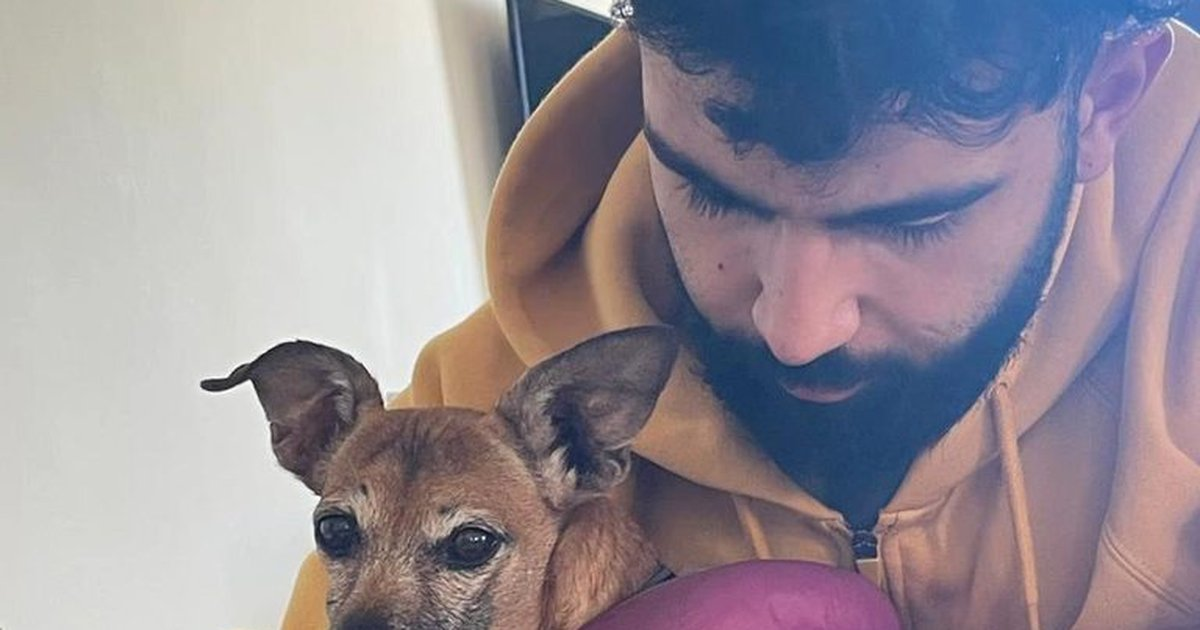
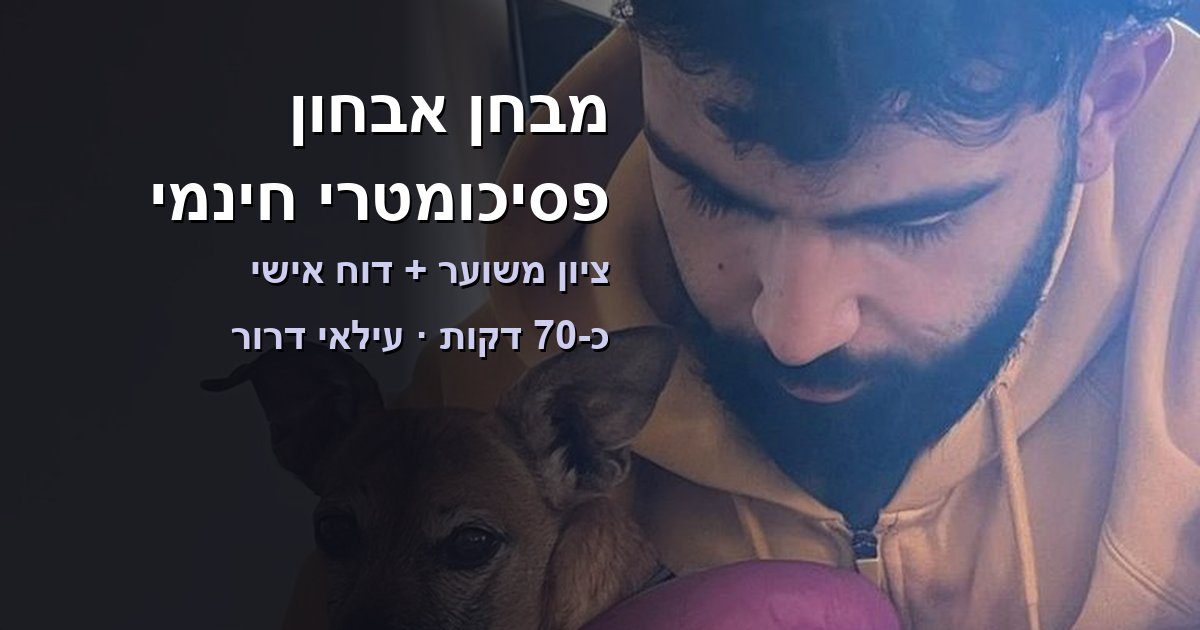
Hashed teacher code, share image with text, stricter short-essay score, mobile labels

diff --git a/index.html b/index.html
@@ -122,6 +122,7 @@ h3{font-size:18px;font-weight:700}
 .testbar{position:sticky;top:0;z-index:5;background:var(--surface);border-bottom:1px solid var(--line)}
 .testbar .in{max-width:1180px;margin:0 auto;padding:10px 16px;display:flex;align-items:center;gap:14px;flex-wrap:wrap}
 .testbar .title{font-weight:800}
+.testbar .title .short,.navbar .btn .lbl-s{display:none}
 .timer{margin-inline-start:auto;font-variant-numeric:tabular-nums;font-weight:800;font-size:20px;padding:4px 14px;border-radius:999px;background:var(--surface-2);border:1px solid var(--line)}
 .timer.low{background:var(--bad-bg);border-color:var(--bad-line);color:var(--bad-ink)}
 .timer.free{font-size:15px;font-weight:600;color:var(--ink-2)}
@@ -365,6 +366,9 @@ details.jr[open]>summary{margin-bottom:10px}
   .testbar .btn.small{padding:4px 10px;font-size:13px}
   .timer{font-size:16px;padding:2px 10px}
   .navbar .btn .lbl{display:none}
+  .navbar .btn .lbl-s{display:inline}
+  .testbar .title .long{display:none}
+  .testbar .title .short{display:inline}
   .pane-toggle{display:flex}
   .qwrap.has-passage.show-q .passage{display:none}
   .qwrap.has-passage.show-p .qcard{display:none}
@@ -436,7 +440,8 @@ const CONFIG = {
     url: 'https://docs.google.com/forms/d/e/1FAIpQLScuFQVT38QfxcK7o1diBXV3meJvBAJAoJFlw9DSOlAKMBEvCA/formResponse',
     fields: {name: 338451258, phone: 454271998, email: 929502395, results: 211868837, code: 629827510},
   },
-  teacherPin: '2468',              // קוד כניסה לדוח המורה
+  // קוד כניסה לדוח המורה: נשמר רק ה-SHA-256 שלו, כדי שלא יופיע בקוד. להחלפה: python -c "import hashlib;print(hashlib.sha256(b'NEW').hexdigest())"
[1 lines of base64/hex data omitted]
   minutes: {verbal: 23, quant: 23, english: 23, essay: 30}, // זמן לפרק במצב "עם זמן"
   realMinutes: 20,                 // זמן פרק בבחינה האמיתית (לחישוב "ציון בתנאי אמת")
   essayRealMinutes: 30,
@@ -489,7 +494,11 @@ function interp(points, x) {
   }
   return points[points.length - 1][1];
 }
-const waLink = text => 'https://wa.me/' + CONFIG.teacherPhone + '?text=' + encodeURIComponent(text);
+async function sha256Hex(s) {
+  try { const b = await crypto.subtle.digest('SHA-256', new TextEncoder().encode(s)); return [...new Uint8Array(b)].map(x => x.toString(16).padStart(2, '0')).join(''); }
+  catch (e) { return ''; }
+}
+const waLink = text =>'https://wa.me/' + CONFIG.teacherPhone + '?text=' + encodeURIComponent(text);
 const telLink = () => 'tel:+' + CONFIG.teacherPhone;
 const tiktokLink = () => 'https://www.tiktok.com/@' + CONFIG.tiktok;
 const mailLink = (subj = 'מבחן האבחון') => 'mailto:' + CONFIG.email + '?subject=' + encodeURIComponent(subj);
@@ -783,7 +792,7 @@ function estimateEssay(text, prompt) {
   l -= Math.min(2, informal * .75);
   let language = 1 + l * 5 / 7;
   // חיבור קצר אינו מפותח מספיק: תקרה לפי אורך
-  const cap = W < 60 ? 1 : W < 120 ? 3 : W < 180 ? 4 : W < 250 ? 5 : 6;
+  const cap = W < 60 ? 1 : W < 120 ? 2 : W < 180 ? 3 : W < 250 ? 4 : W < 300 ? 5 : 6;
   if (keys < 2 && W >= 60) content = Math.min(content, 2.4); // כנראה לא עונה על הנושא
   content = Math.round(clamp(Math.min(content, cap), 1, 6));
   language = Math.round(clamp(Math.min(language, cap), 1, 6));
@@ -994,7 +1003,7 @@ function renderQuestion() {
   const choices = q.choices.map((c, i) => `<button class="choice ${chosen === i + 1 ? 'sel' : ''}" aria-pressed="${chosen === i + 1}" data-act="choose" data-v="${i + 1}"><span class="n">(${i + 1})</span><span>${c}</span></button>`).join('');
   const nums = s.questions.map((qq, i) => `<button class="qn ${S.ans[qq.id] ? 'done' : ''} ${i === S.qi ? 'cur' : ''} ${S.marks[qq.id] ? 'mark' : ''}" data-act="go" data-v="${i}" aria-label="שאלה ${i + 1}">${i + 1}</button>`).join('');
   return `<div class="testbar"><div class="in">
-      <span class="title"><span class="dot" style="background:${COLORS[k]}"></span>${s.name}</span>
+      <span class="title"><span class="dot" style="background:${COLORS[k]}"></span><span class="long">${s.name}</span><span class="short">${s.short}</span></span>
       <span class="sub">שאלה ${S.qi + 1} מתוך ${n}</span>
       ${k === 'quant' ? '<button class="btn small" data-act="formulas">נוסחאות</button>' : ''}
       <span id="timer" role="timer" class="timer ${S.mode === 'timed' ? '' : 'free'}"></span>
@@ -1016,7 +1025,7 @@ function renderQuestion() {
     </div>
     <div class="navbar"><div class="in">
       <button class="btn small" data-act="prev" ${S.qi === 0 ? 'disabled' : ''}>→<span class="lbl"> הקודמת</span></button>
-      <button class="btn small" data-act="mark" aria-label="${S.marks[q.id] ? 'ביטול סימון' : 'סימון לבדיקה'}">🔖<span class="lbl"> ${S.marks[q.id] ? 'בטל סימון' : 'סמן לבדיקה'}</span></button>
+      <button class="btn small" data-act="mark" aria-label="${S.marks[q.id] ? 'ביטול סימון' : 'סימון לבדיקה'}">🔖<span class="lbl"> ${S.marks[q.id] ? 'בטל סימון' : 'סמן לבדיקה'}</span><span class="lbl-s"> ${S.marks[q.id] ? 'בטל' : 'סמן'}</span></button>
       <div class="qnums">${nums}</div>
       ${S.qi < n - 1 ? '<button class="btn small primary" data-act="next">הבאה ←</button>' : ''}
       <button class="btn small" data-act="finish">סיום<span class="lbl"> הפרק</span></button>
@@ -1738,10 +1747,10 @@ document.addEventListener('click', async ev => {
     case 'a11y-t': A11Y[v] = !A11Y[v]; applyA11y(); renderA11yPanel(); break;
     case 'a11y-reset': A11Y = {f: 0}; applyA11y(); renderA11yPanel(); break;
     case 'teacher-login':
-      modal(`<h2>כניסת מורה</h2><div class="field"><label for="pin">קוד</label><input id="pin" type="password" inputmode="numeric"></div><div class="row" style="margin-top:14px"><button class="btn primary" data-act="pin-ok">כניסה</button><button class="btn" data-act="close">ביטול</button></div>`);
+      modal(`<h2>כניסת מורה</h2><div class="field"><label for="pin">קוד</label><input id="pin" type="password" autocomplete="off" autocapitalize="off" spellcheck="false"></div><div class="row" style="margin-top:14px"><button class="btn primary" data-act="pin-ok">כניסה</button><button class="btn" data-act="close">ביטול</button></div>`);
       setTimeout(() => $('#pin')?.focus(), 50); break;
     case 'pin-ok':
-      if ($('#pin').value === CONFIG.teacherPin) {
+      if (await sha256Hex($('#pin').value.trim()) === CONFIG.teacherPinHash) {
         closeModal(); view.teacher = true;
         view.record = S && S.stage === 'done' ? withTeacherData(lsGet(HIST, []).find(x => x.id === S.id) || buildRecord()) : null;
         view.tab = 'teacher'; render();
@@ -1811,7 +1820,7 @@ function teacherFromHash() {
   if (location.hash === '#teacher' && !view.teacher) openTeacherLogin();
 }
 function openTeacherLogin() {
-  modal(`<h2>כניסת מורה</h2><div class="field"><label for="pin">קוד</label><input id="pin" type="password" inputmode="numeric"></div><div class="row" style="margin-top:14px"><button class="btn primary" data-act="pin-ok">כניסה</button><button class="btn" data-act="close">ביטול</button></div>`);
+  modal(`<h2>כניסת מורה</h2><div class="field"><label for="pin">קוד</label><input id="pin" type="password" autocomplete="off" autocapitalize="off" spellcheck="false"></div><div class="row" style="margin-top:14px"><button class="btn primary" data-act="pin-ok">כניסה</button><button class="btn" data-act="close">ביטול</button></div>`);
 }
 window.addEventListener('hashchange', teacherFromHash);
 render();
